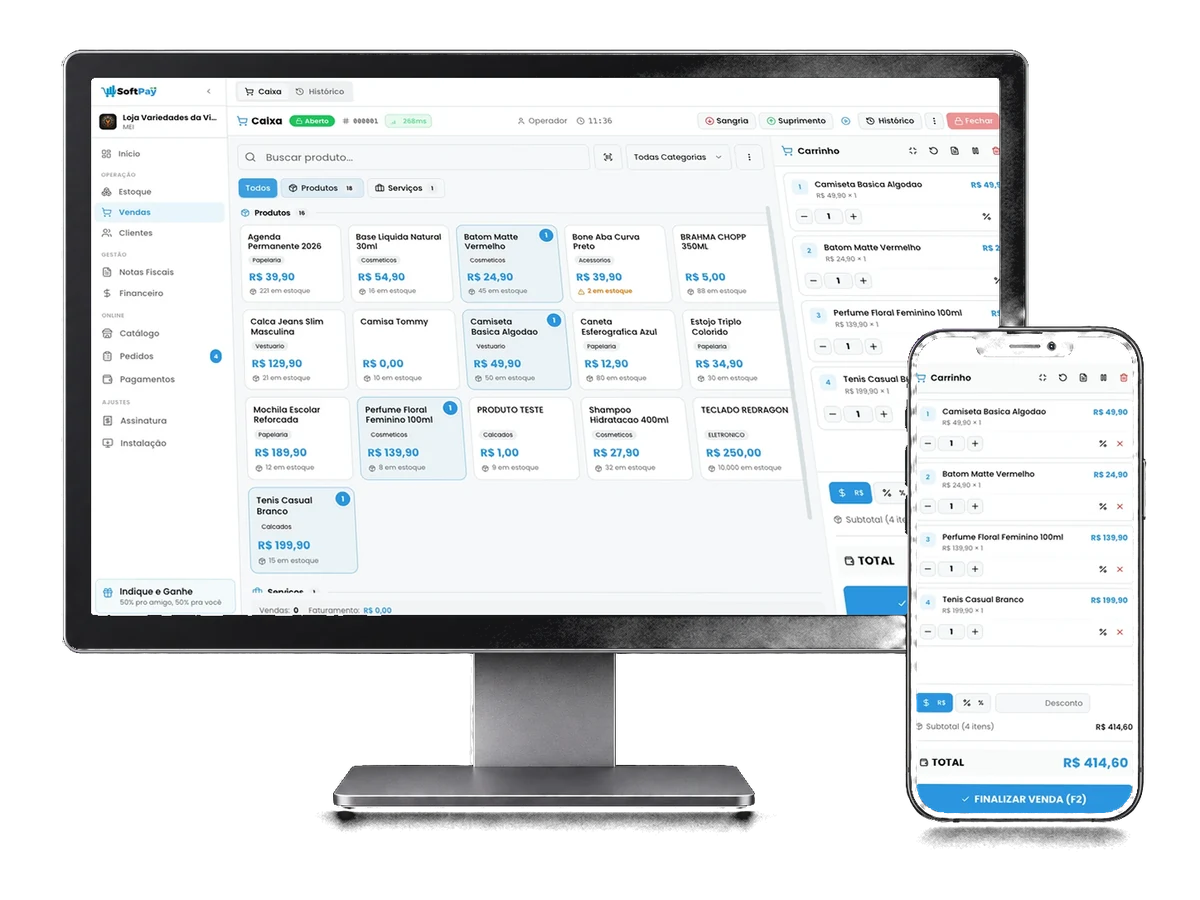
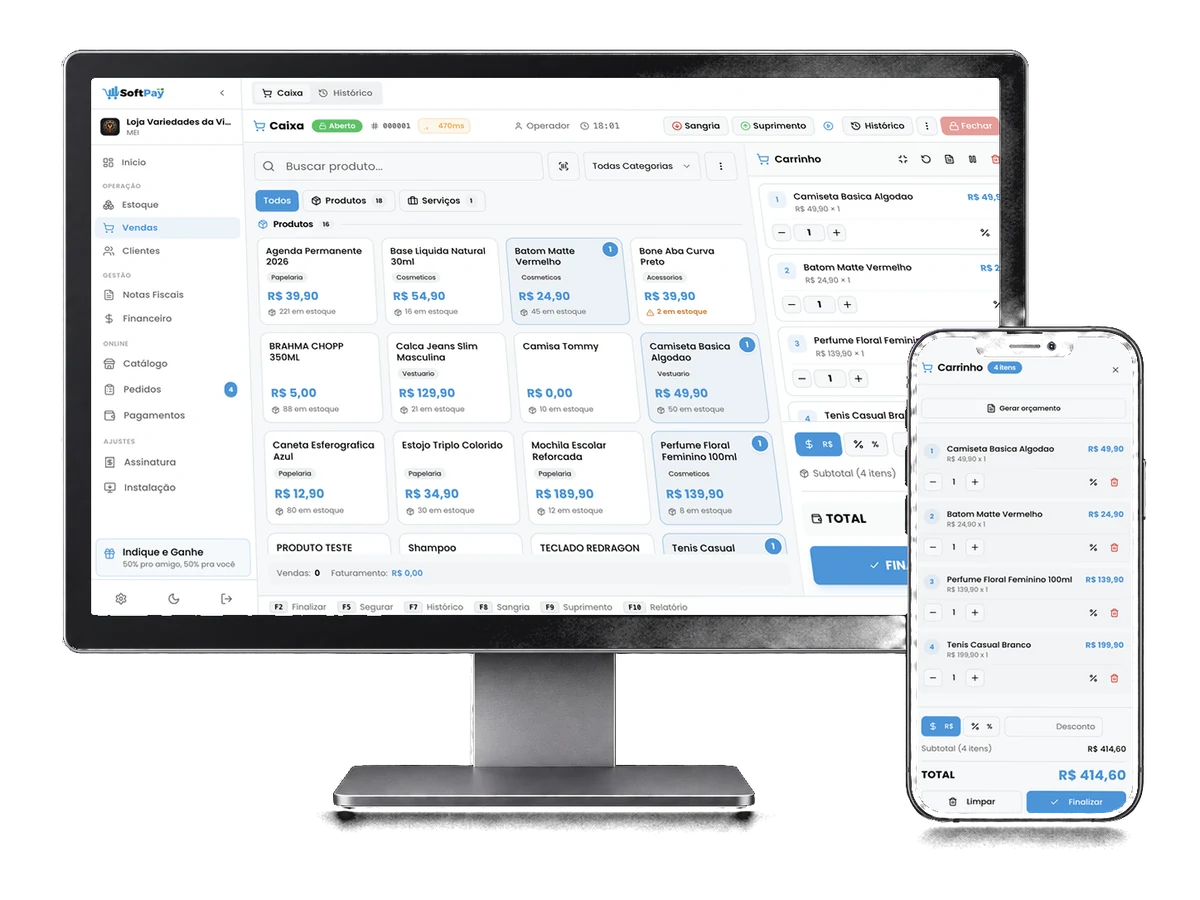
A peça da hero do celular passa a usar o sistema de verdade, capturado logado
O Victor destravou o captcha do login no navegador do agente (19/09/2026), e
as telas dos aparelhos deixam de vir das capturas antigas.

· Monitor: /vendas capturado a 1440x852 em densidade 2 (2880x1704), com a venda
  de R$ 414,60 montada no carrinho da loja de demonstração.
· Celular: o carrinho no layout de CELULAR do próprio sistema — a gaveta que
  abre pelo botão flutuante —, a mesma venda. Antes era um recorte da tela do
  computador reduzido. Encaixado pela altura: aparece inteiro, até "Limpar" e
  "Finalizar".

Capturas guardadas em assets-fonte/hero/capturas/ e o jeito de refazê-las no
LEIA-ME (aba de fundo, sem finalizar venda, sem fotografar o /admin, que tem
dados reais de clientes). tools/peca-hero-celular.py lê delas.

Desktop sem mudança (guard).

diff --git a/public/index.html b/public/index.html
@@ -228,7 +228,7 @@
                     <!-- CELULAR E TABLET: a peça renderizada, com as capturas reais
                          encaixadas nas telas por perspectiva (tools/peca-hero.py).
                          É ela que resolve a moldura que ele apontou. -->
-                    <img class="hero__peca" src="/assets/hero/aparelhos-2-1200.webp?v=0823156c1a"
+                    <img class="hero__peca" src="/assets/hero/aparelhos-2-1200.webp?v=eead2ff8bf"
                          width="1200" height="900" fetchpriority="high" decoding="async"
                          alt="O SoftPay aberto num monitor e num celular: o PDV com o carrinho fechando em R$ 414,60" />
                 </figure>

diff --git a/tools/peca-hero-celular.py b/tools/peca-hero-celular.py
@@ -31,7 +31,9 @@ from PIL import Image
 
 RAIZ = pathlib.Path(__file__).resolve().parent.parent
 CHROMA = RAIZ / 'assets-fonte/hero/aparelhos-2-chroma.png'
-PDV = RAIZ / 'public/assets/sistema/pdv.webp'
+CAP = RAIZ / 'assets-fonte/hero/capturas'
+PDV = CAP / 'pdv-1440-dpr2.png'          # 2880x1704 — PDV a 1440px, densidade 2
+CARRINHO = CAP / 'carrinho-390-dpr3.png'  # 1170x2532 — carrinho no layout de celular, densidade 3
 SAIDA = RAIZ / 'public/assets/hero'
 
 def dilatar(m, n=2):
@@ -70,18 +72,27 @@ def main():
     a = np.asarray(peca).astype(np.int16); R, G, B = a[..., 0], a[..., 1], a[..., 2]
     verde = (G > 150) & (R < 120) & (B < 120)
     magenta = (R > 150) & (B > 150) & (G < 120)
-    pdv = Image.open(PDV).convert('RGB')                       # 1400x845
+    pdv = Image.open(PDV).convert('RGB')                       # 2880x1704
 
     # MONITOR: PDV inteiro, cortando só o rodapé até a proporção da tela
     _, (x0, y0, x1, y1) = cantos(dilatar(verde)); prop = (x1 - x0 + 1) / (y1 - y0 + 1)
-    monitor = pdv.crop((0, 0, 1400, round(1400 / prop)))
+    monitor = pdv.crop((0, 0, pdv.width, min(pdv.height, round(pdv.width / prop))))
 
-    # CELULAR: painel do carrinho + faixa branca no alto para o entalhe
+    # CELULAR: o carrinho no layout de CELULAR do próprio sistema (capturado a
+    # 390px, densidade 3), sem a sombra da gaveta na borda esquerda e com uma
+    # faixa no alto para o entalhe da câmera não cobrir o "4 itens"
     _, (x0, y0, x1, y1) = cantos(dilatar(magenta)); prop_c = (x1 - x0 + 1) / (y1 - y0 + 1)
-    carrinho = pdv.crop((1036, 100, 1400, 845))                # 364x745
-    alto = round(carrinho.width / prop_c)
-    celular = Image.new('RGB', (carrinho.width, alto), (255, 255, 255))
-    celular.paste(carrinho, (0, alto - carrinho.height))
+    car = Image.open(CARRINHO).convert('RGB')
+    car = car.crop((20, 0, car.width, car.height))
+    # a captura é um pouco mais alta que a proporção da tela: ela entra pela
+    # ALTURA (nada do rodapé do carrinho — Limpar e Finalizar — fica de fora) e
+    # sobra uma margem estreita dos lados, na cor do fundo do painel
+    larg = car.width; alto = round(larg / prop_c)
+    faixa = round(alto * 0.045)
+    esc = (alto - faixa) / car.height
+    car2 = car.resize((round(car.width * esc), alto - faixa), Image.LANCZOS)
+    celular = Image.new('RGB', (larg, alto), car.getpixel((car.width // 2, 8)))
+    celular.paste(car2, ((larg - car2.width) // 2, faixa))
 
     base = peca.copy()
     print('monitor', encaixar(base, verde, monitor), 'de', monitor.size)

diff --git a/assets-fonte/hero/LEIA-ME.md b/assets-fonte/hero/LEIA-ME.md
@@ -72,3 +72,19 @@ que o desktop voltar a usar render.
   3D, o Chrome rasteriza em baixa resolução e as telas viram mancha no meio da
   rolagem (medido lado a lado em DPR 3). A sombra é uma elipse em
   `.hero__tela::after`.
+
+### Capturas reais (19/09/2026, noite)
+
+O Victor destravou o captcha do login no navegador do agente e as telas passaram
+a vir do sistema de verdade, em `assets-fonte/hero/capturas/`:
+
+- `pdv-1440-dpr2.png` — `/vendas` a 1440x852, densidade 2 (2880x1704), com o
+  carrinho montado na loja de demonstração (4 itens, R$ 414,60). Vai no monitor.
+- `carrinho-390-dpr3.png` — o carrinho no layout de CELULAR do sistema (a gaveta
+  que abre pelo botão flutuante), mesma venda. Vai no celular.
+- `vendas-390-dpr3.png` — a grade de produtos no layout de celular (reserva).
+
+Como capturar de novo: navegador do agente logado (`de browser start`), aba de
+fundo por `abaSemFoco()`, `Emulation.setDeviceMetricsOverride` na largura
+desejada. Os cliques nos produtos só montam o carrinho — nunca finalizar venda.
+A sessão do painel `/admin` tem dados reais de clientes: não fotografar.
